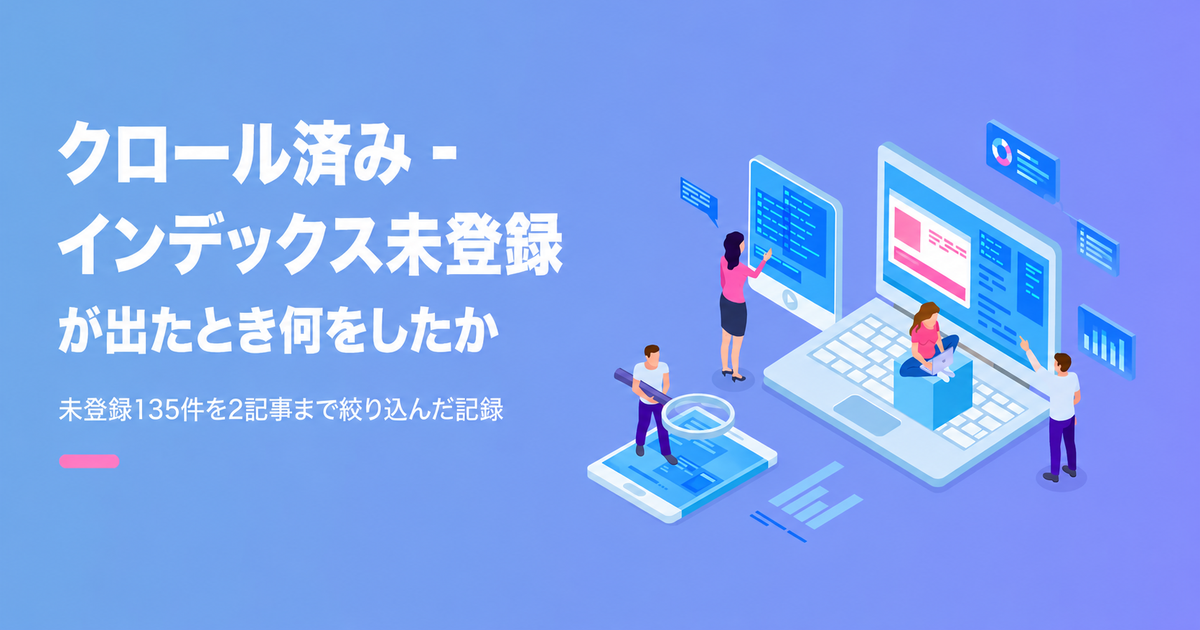
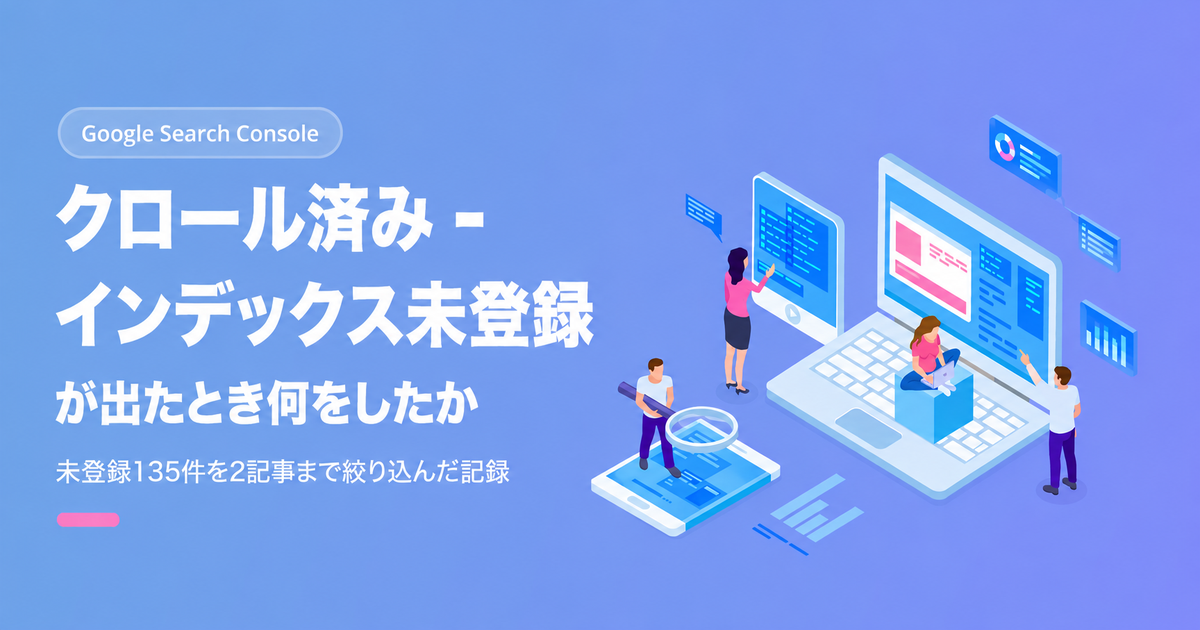
feat: eyecatch_0057を差し替え（GSCラベル追加版）＋プロンプトの否定形禁止をルール化
- 新しい生成画像(1728x910・比率1.8989)を1200x630へ。上から3pxのみカット
- プロンプトに「16:9」の語を出さない。否定形（16:9では出力しない等）も書かない

diff --git a/knowledge/eyecatch-rules.md b/knowledge/eyecatch-rules.md
@@ -6,7 +6,8 @@
 - 命名規則：`eyecatch_XXXX.png`（記事のfrontmatter`no`と完全一致・4桁ゼロ埋め）。シリーズ・種別にかかわらず`no`で統一管理し、形式はすべてPNG
 - 記事確定後、`image_XX.png`などの仮名ファイルを`eyecatch_XXXX.png`にリネームするのはCCの作業。リネームはBashで実行する
 - **番号変更前に必ず画像の中身をReadで確認する**。WP上の実態（ユーザー認識）をリポジトリの数字より優先する
-- **出力サイズはプロンプトで「1200×630px」と直接指定する（2026-08-13変更）。プロンプトに「16:9」と書かない。**16:9は比率1.778、1200×630は比率1.905で一致しない。16:9で生成させると必ずトリミングが発生し、そのぶん構図が崩れる。**サイズのズレは切って直すのではなく、生成の指定で防ぐ**
+- **出力サイズはプロンプトで「1200×630px」と直接指定する（2026-08-13変更）。**16:9は比率1.778、1200×630は比率1.905で一致しない。16:9で生成させると必ずトリミングが発生し、そのぶん構図が崩れる。**サイズのズレは切って直すのではなく、生成の指定で防ぐ**
+- **プロンプトに「16:9」の語を出さない。否定形も書かない**（「16:9では出力しない」もNG）。出したいサイズだけを書く。禁止の言い回しを入れると、かえってその比率を意識した構図で出てくる
 - **⚠ リサイズ・トリミング・リネームはCCが行う。GPTに任せない**（2026-08-13確定。GPTに任せたところトリミング位置がずれ、左余白が潰れて下に大きな空きが出た）
 - **それでも1200×630で出てこなかった場合のトリミング**：位置を目視で決めず実測する。**削る前に、白文字・ピンク・濃色のピクセルからコンテンツのバウンディングボックスを求め、コンテンツが天地中央に来る位置で切る**（PIL＋numpy。上下どちらから削るかは画像による）。切り出し後に上下の余白が揃っているか数値で確認し、最後に画像をReadで開いて欠けがないか目視する
 - リサイズは`Image.LANCZOS`。保存時にICCプロファイルを引き継がない（アップロードエラーの予防）
